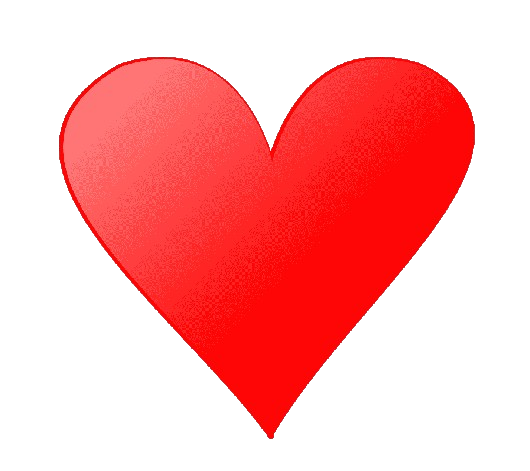
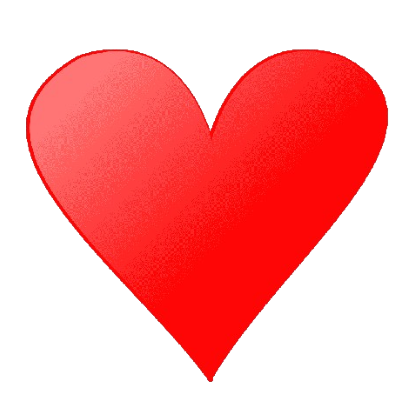
Toutes les cartes se retournent, la bdd est à jour avec le meilleur score, quand on s'inscrit ca nous connecte direct, les cards dans la liste cardsFlipped ne sont pas différenciée les unes des autres, ajout des images carreau, piques et trefles

diff --git a/templates/jeu.html b/templates/jeu.html
@@ -31,7 +31,7 @@
                     {% set nb_carte = (i * 9 + j) - 1 %}
                     {% if j == 0 %}
                         <td class="symbole">
-                            <img src="{{ image_coeur }}" alt="Symbole de coeur">
+                            <img src="{{ liste[i] }}" alt="Symbole de coeur" class="imageSymbole">
                         </td>
                     {%  else  %}
                     <td class="card">
@@ -51,37 +51,7 @@
     </body>
 {% endblock %}
     {% block scripts %}
-        <script>
-            document.addEventListener('DOMContentLoaded', function () {
-                const cards = document.querySelectorAll('.card');
-                let flippedCard = null;
-                let isFlipping = false;
-
-                cards.forEach(card => {
-                    card.addEventListener('click', function () {
-                        // Vérifie si une carte est déjà retournée et si une animation est en cours
-                        if (!flippedCard && !isFlipping) {
-                            this.classList.toggle('flipped');
-                            flippedCard = this;
-                            isFlipping = true;
-                            // Ajoute un délai avant de permettre à une autre carte d'être retournée
-                            setTimeout(() => {
-                                isFlipping = false;
-                            }, 1500); // Ajustez le délai en fonction de la durée de votre transition
-                        } else if (!isFlipping) {
-                            // Cache la carte précédemment retournée si une autre est cliquée
-                            flippedCard.classList.remove('flipped');
-                            this.classList.toggle('flipped');
-                            flippedCard = this;
-                            isFlipping = true;
-
-                            setTimeout(() => {
-                                isFlipping = false;
-                            }, 1500);
-                        }
-                    });
-                });
-            });
+        <script src="../static/JS/carteRetourne.js">
         </script>
     {% endblock %}
 

diff --git a/static/JS/carteRetourne.js b/static/JS/carteRetourne.js
@@ -1,0 +1,32 @@
+document.addEventListener('DOMContentLoaded', function () {
+    const cards = document.querySelectorAll('.card');
+    let isFlipping = false;
+    let cardsFlipped = [];
+
+    cards.forEach(card => {
+        card.addEventListener('click', function () {
+            // Vérifie si une animation est en cours
+            if (!isFlipping) {
+                // Retourne la carte
+                if (!cardsFlipped.includes(this)) {
+                    isFlipping = true;
+                    this.classList.toggle('flipped');
+                    // Si aucune carte n'est déjà retournée, enregistrez celle-ci comme la carte actuellement retournée
+                    cardsFlipped.push(this);
+                    setTimeout(() => {
+                        isFlipping = false;
+                    }, 500)
+                } else {
+                    // Si une carte est déjà retournée, réinitialisez la variable flippedCard après un délai
+                    isFlipping = true;
+                    i = cardsFlipped.indexOf(this);
+                    cardsFlipped.splice(i, 1);
+                    this.classList.remove('flipped');
+                    setTimeout(() => {
+                        isFlipping = false;
+                    }, 1000); // Ajustez le délai en fonction de la durée de votre transition
+                }
+            }
+        });
+    });
+});

diff --git a/static/css/style.css b/static/css/style.css
@@ -1,8 +1,25 @@
+@import url('https://fonts.googleapis.com/css2?family=Silkscreen&display=swap');
+
+*{
+    font-family: 'Silkscreen', sans-serif;
+}
+
+
 /* Style de base */
 #tapisJeu {
     font-family: Arial, sans-serif;
     margin: 0;
     background-color: #134d06;
+}
+
+.imageSymbole {
+    height: 200px;
+    width: 250px;
+}
+
+.symbole {
+    height: 222px;
+    width: 258px;
 }
 
 /* Conteneur principal */
@@ -52,7 +69,7 @@
 
 .card img, .symbole img {
     max-width: 100%;
-    height: auto;
+    /*height: auto;*/
     object-fit: contain;
 }
 

diff --git a/static/css/form.css b/static/css/form.css
@@ -1,3 +1,9 @@
+@import url('https://fonts.googleapis.com/css2?family=Silkscreen&display=swap');
+
+*{
+    font-family: 'Silkscreen', sans-serif;
+}
+
 /* Style pour les titres */
 h1, h2 {
     text-align: center;

diff --git a/app.py b/app.py
@@ -10,6 +10,7 @@ app.config['SQLALCHEMY_DATABASE_URI'] = 'sqlite:///bdd.db'
 app.config['SECRET_KEY'] = 'sixtrefle'
 db.init_app(app)
 bcrypt = Bcrypt(app)
+app.app_context().push()
 
 login_manager = LoginManager()
 login_manager.init_app(app)
@@ -22,12 +23,14 @@ def load_user(id_joueur):
 
 
 with app.app_context():
+    db.drop_all()
     db.create_all()
 
 LISTE_SUIT = ['H', 'S', 'D', 'C']
 LISTE_VALUE = ['A', 'K', 'Q', 'J', '0', '9', '8', '7', '6']
 URL_DOS_CARTE = "https://www.deckofcardsapi.com/static/img/back.png"
-URL_COEUR_SYMBOLE = "./static/images/coeur.png"
+LISTE_SYMBOLE = ["./static/images/coeur.png", "./static/images/pique.png", "./static/images/carreau.png",
+                 "./static/images/trefle.png"]
 
 
 def init_deck():
@@ -62,7 +65,7 @@ def jeu():
         cartes = tirer_les_cartes(deck_data['deck_id'])
         if cartes:
             return render_template('jeu.html', carte_data=cartes, liste_valeur=LISTE_VALUE, dos_carte=URL_DOS_CARTE,
-                                   image_coeur=URL_COEUR_SYMBOLE)
+                                   liste=LISTE_SYMBOLE)
         else:
             return "Erreur lors du tirage de la carte."
     else:
@@ -74,10 +77,11 @@ def inscription():
     form = FormulaireInscription()
     if form.validate_on_submit():
         mdp_crypte = bcrypt.generate_password_hash(form.mot_de_passe.data)
-        nouveau_joueur = Joueur(pseudo=form.pseudo.data, mot_de_passe=mdp_crypte)
+        nouveau_joueur = Joueur(pseudo=form.pseudo.data, mot_de_passe=mdp_crypte, meilleur_score=0)
         db.session.add(nouveau_joueur)
         db.session.commit()
-        return redirect(url_for('connexion'))
+        login_user(nouveau_joueur)
+        return redirect(url_for('jeu'))
     return render_template('register.html', form=form)
 
 

diff --git a/models.py b/models.py
@@ -3,8 +3,10 @@ from flask_login import UserMixin
 
 db = SQLAlchemy()
 
+
 class Joueur(db.Model, UserMixin):
     id = db.Column(db.Integer, primary_key=True)
     pseudo = db.Column(db.String(20), nullable=False, unique=True)
     mot_de_passe = db.Column(db.String(80), nullable=False)
+    meilleur_score = db.Column(db.Integer, nullable=False)
 
